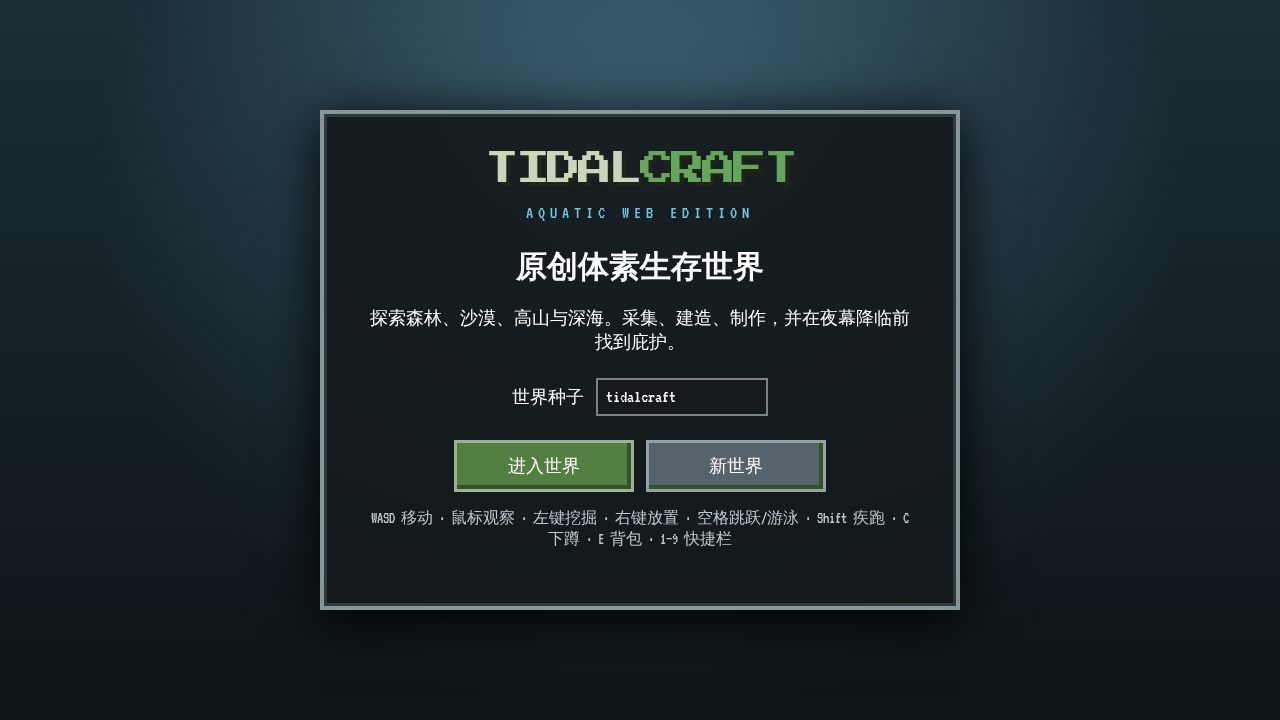
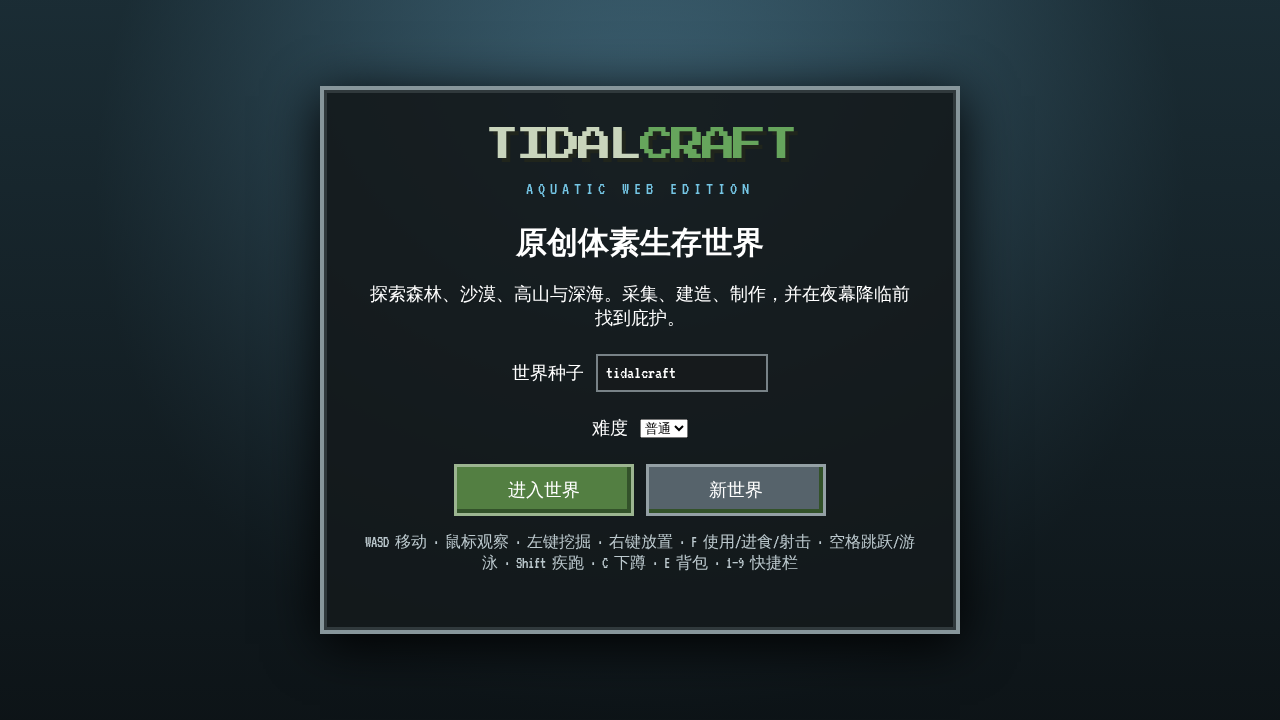
TES-5: expand survival and aquatic interactions

Changed region(s): [[0.25, 0.0917, 0.75, 0.7944], [0.25, 0.825, 0.75, 0.8861]]

diff --git a/src/main.js b/src/main.js
@@ -1,21 +1,21 @@
 import * as THREE from 'three';
 import './style.css';
 import {BLOCKS,ITEMS,ALL_DEFINITIONS,HOTBAR_DEFAULT,RECIPES} from './data.js';
-import {SEA_LEVEL,hashSeed,noise2,biomeAt,terrainHeight,generatedBlock,keyOf,Inventory,canHarvest,breakSeconds,tickSurvival,serializeSave,parseSave} from './sim.js';
+import {SEA_LEVEL,hashSeed,noise2,biomeAt,terrainHeight,generatedBlock,keyOf,Inventory,canHarvest,breakSeconds,tickSurvival,serializeSave,parseSave,smelt} from './sim.js';
 
 const $=s=>document.querySelector(s); const canvas=$('#game');
 const scene=new THREE.Scene(); scene.background=new THREE.Color(0x79b7dc); scene.fog=new THREE.Fog(0x91bdd0,25,76);
 const camera=new THREE.PerspectiveCamera(72,innerWidth/innerHeight,.08,120); camera.rotation.order='YXZ';
 const renderer=new THREE.WebGLRenderer({canvas,antialias:false,powerPreference:'high-performance'}); renderer.setPixelRatio(Math.min(devicePixelRatio,1.5)); renderer.setSize(innerWidth,innerHeight); renderer.shadowMap.enabled=false;
 scene.add(new THREE.HemisphereLight(0xc8eaff,0x5b6455,1.9)); const sun=new THREE.DirectionalLight(0xfff3d0,2); sun.position.set(35,50,20); scene.add(sun);
-const worldGroup=new THREE.Group(); const entityGroup=new THREE.Group(); const dropsGroup=new THREE.Group(); scene.add(worldGroup,entityGroup,dropsGroup);
+const worldGroup=new THREE.Group(); const entityGroup=new THREE.Group(); const dropsGroup=new THREE.Group(); const projectileGroup=new THREE.Group(); scene.add(worldGroup,entityGroup,dropsGroup,projectileGroup);
 const boxGeo=new THREE.BoxGeometry(1,1,1); const raycaster=new THREE.Raycaster(); raycaster.far=6; const center=new THREE.Vector2(0,0);
 const outline=new THREE.LineSegments(new THREE.EdgesGeometry(new THREE.BoxGeometry(1.012,1.012,1.012)),new THREE.LineBasicMaterial({color:0x111111})); outline.visible=false; scene.add(outline);
 
 let seedText='tidalcraft',seed=hashSeed(seedText),started=false,selected=0,last=performance.now(),lastHud=0,yaw=0,pitch=0,frameTimes=[],saveTimer=0,breakState=null;
-let modifications=new Map(),blockMeshes=[],entities=[],drops=[],keys={},chunks=new Set(),difficulty='normal';
+let modifications=new Map(),blockMeshes=[],entities=[],drops=[],projectiles=[],keys={},chunks=new Set(),difficulty='normal';
 let player={x:0,y:15,z:0,vx:0,vy:0,vz:0,health:20,hunger:20,oxygen:10,onGround:false,time:6000,spawn:{x:0,y:15,z:0},dead:false};
-let inventory=new Inventory(); HOTBAR_DEFAULT.forEach((id,i)=>inventory.slots[i]={id,count:id==='wooden_pickaxe'||id==='trident'?1:32,durability:ITEMS[id]?.durability}); inventory.add('bread',5); inventory.add('arrow',16);
+let inventory=new Inventory(); HOTBAR_DEFAULT.forEach((id,i)=>inventory.slots[i]={id,count:id==='wooden_pickaxe'||id==='trident'?1:32,durability:ITEMS[id]?.durability}); inventory.add('bread',5); inventory.add('arrow',16); inventory.add('wooden_hoe',1,{durability:59}); inventory.add('wheat_seed',8);
 
 function materialFor(id){const d=BLOCKS[id];return new THREE.MeshLambertMaterial({color:d.color,transparent:!!d.transparent,opacity:id==='water' ? .62 : (d.transparent ? .82 : 1),depthWrite:id!=='water',flatShading:true})}
 const materials=new Map(Object.keys(BLOCKS).map(id=>[id,materialFor(id)]));
@@ -32,10 +32,20 @@ function collides(x,y,z){const r=.3;for(const dx of[-r,r])for(const dz of[-r,r])
 function updatePlayer(dt){const underwater=player.y<SEA_LEVEL-.2&&actualBlock(player.x,player.y+1,player.z)==='water';const speed=(keys.ShiftLeft?7.2:keys.KeyC?2.1:4.3)*(underwater?.72:1),fwd=(keys.KeyW?1:0)-(keys.KeyS?1:0),side=(keys.KeyD?1:0)-(keys.KeyA?1:0);const len=Math.hypot(fwd,side)||1,sy=Math.sin(yaw),cy=Math.cos(yaw);player.vx=((side*cy-fwd*sy)/len)*speed;player.vz=((fwd*cy+side*sy)/len)*speed;if(underwater){player.vy+=(keys.Space?8:-1.4)*dt;player.vy*=.9}else player.vy-=22*dt;if(keys.Space&&player.onGround){player.vy=8;player.onGround=false}let nx=player.x+player.vx*dt;if(!collides(nx,player.y,player.z))player.x=nx;else if(!collides(nx,player.y+.55,player.z))player.y+=.55,player.x=nx;let nz=player.z+player.vz*dt;if(!collides(player.x,player.y,nz))player.z=nz;let ny=player.y+player.vy*dt;if(!collides(player.x,ny,player.z)){player.y=ny;player.onGround=false}else{if(player.vy<0)player.onGround=true;player.vy=0}if(player.y<0){damage(99);respawn()}tickSurvival(player,dt,{underwater,difficulty});$('#underwater').style.opacity=underwater?1:0;$('#oxygen-row').style.display=underwater?'block':'none';camera.position.set(player.x,player.y+1.62-(keys.KeyC?.35:0),player.z);camera.rotation.set(pitch,yaw,0);if(player.health<=0&&!player.dead){player.dead=true;for(const s of inventory.slots)if(s)spawnDrop(player.x,player.y+1,player.z,s.id,s.count);inventory=new Inventory();toast('你死了 — 正在重生');setTimeout(respawn,1700)}if(Math.floor(player.x/16)+','+Math.floor(player.z/16)!==[...chunks][12]){const edge=[...chunks].every(c=>{const[a,b]=c.split(',').map(Number);return Math.abs(a-Math.floor(player.x/16))<=2&&Math.abs(b-Math.floor(player.z/16))<=2});if(!edge)buildWorld()}}
 function damage(n){player.health=Math.max(0,player.health-n)} function respawn(){Object.assign(player,{...player.spawn,vx:0,vy:0,vz:0,health:20,hunger:20,oxygen:10,dead:false})}
 function spawnDrop(x,y,z,id,count=1){const mesh=new THREE.Mesh(new THREE.BoxGeometry(.28,.28,.28),new THREE.MeshLambertMaterial({color:BLOCKS[id]?.color||0xf3d26b}));mesh.position.set(x,y,z);dropsGroup.add(mesh);drops.push({mesh,id,count,age:0})}
-function updateDrops(dt){for(const d of drops){d.age+=dt;d.mesh.rotation.y+=dt*2;d.mesh.position.y+=Math.sin(d.age*3)*.001;const dist=d.mesh.position.distanceTo(camera.position);if(dist<1.7){const left=inventory.add(d.id,d.count);if(!left){dropsGroup.remove(d.mesh);drops=drops.filter(x=>x!==d);toast(`拾取 ${ALL_DEFINITIONS[d.id]?.name||d.id}`);renderHud()}}}}
+function updateDrops(dt){
+  for(const d of [...drops]){
+    d.age+=dt;d.mesh.rotation.y+=dt*2;d.mesh.position.y+=Math.sin(d.age*3)*.001;
+    const dist=d.mesh.position.distanceTo(camera.position);
+    if(dist<1.7){const left=inventory.add(d.id,d.count);if(!left){dropsGroup.remove(d.mesh);drops=drops.filter(x=>x!==d);toast(`拾取 ${ALL_DEFINITIONS[d.id]?.name||d.id}`);renderHud()}}
+  }
+  updateProjectiles(dt);
+}
+function throwWeapon(id){const dir=new THREE.Vector3();camera.getWorldDirection(dir);const mesh=new THREE.Mesh(id==='trident'?new THREE.CylinderGeometry(.06,.06,1.2,5):new THREE.BoxGeometry(.08,.08,.55),new THREE.MeshLambertMaterial({color:id==='trident'?0x72b9b5:0x6d5635}));mesh.position.copy(camera.position).add(dir.clone());mesh.quaternion.setFromUnitVectors(new THREE.Vector3(0,1,0),dir);projectileGroup.add(mesh);projectiles.push({mesh,id,dir,age:0});const slot=inventory.slots[selected];if(slot?.durability)slot.durability--;if(id==='bow')inventory.remove('arrow',1);renderHud()}
+function updateProjectiles(dt){for(const p of [...projectiles]){p.age+=dt;const returning=p.id==='trident'&&p.age>.65;if(returning){const d=camera.position.clone().sub(p.mesh.position),distance=d.length();p.mesh.position.add(d.normalize().multiplyScalar(dt*18));if(distance<1){projectileGroup.remove(p.mesh);projectiles=projectiles.filter(x=>x!==p);continue}}else p.mesh.position.add(p.dir.clone().multiplyScalar(dt*(p.id==='trident'?18:25)));for(const e of entities){if(e.mesh.position.distanceTo(p.mesh.position)<.8){const aquatic=['dolphin','cod','salmon','tropical_fish','pufferfish'].includes(e.type);e.hp-=p.id==='trident'?(aquatic?13:8):5;e.mesh.material.emissive.setHex(0xffffff);if(e.hp<=0){spawnDrop(e.mesh.position.x,e.mesh.position.y,e.mesh.position.z,aquatic?'bread':'raw_iron');entityGroup.remove(e.mesh);entities=entities.filter(x=>x!==e)}if(p.id!=='trident')p.age=99;break}}if(p.age>3){projectileGroup.remove(p.mesh);projectiles=projectiles.filter(x=>x!==p)}}}
 
 function target(){raycaster.setFromCamera(center,camera);const hits=raycaster.intersectObjects([...blockMeshes,...entityGroup.children],false);return hits[0]}
 function actPlace(){const hit=target();if(!hit||entityGroup.children.includes(hit.object))return;const p=hit.point.clone().add(hit.face.normal.clone().multiplyScalar(.51)).floor();const slot=inventory.slots[selected];if(!slot||!BLOCKS[slot.id]||BLOCKS[slot.id].liquid)return toast('选择一个可放置方块');if(collides(p.x,p.y,p.z)||Math.hypot(p.x-player.x,p.z-player.z)<.7&&Math.abs(p.y-player.y)<2)return toast('此处不能放置');modifications.set(keyOf(p.x,p.y,p.z),slot.id);slot.count--;if(!slot.count)inventory.slots[selected]=null;buildWorld();renderHud()}
+function actUse(){const slot=inventory.slots[selected],hit=target();if(!slot)return;if(slot.id==='bread'||BLOCKS[slot.id]?.food){player.hunger=Math.min(20,player.hunger+(ITEMS[slot.id]?.food||BLOCKS[slot.id].food));slot.count--;if(!slot.count)inventory.slots[selected]=null;toast('恢复饥饿值');return renderHud()}const ent=hit&&entities.find(e=>e.mesh===hit.object);if(ent&&slot.id==='bucket'&&['cod','salmon','tropical_fish','pufferfish'].includes(ent.type)){inventory.remove('bucket',1);inventory.add('fish_bucket',1,{fish:ent.type});entityGroup.remove(ent.mesh);entities=entities.filter(e=>e!==ent);toast(`捕获 ${ent.type}`);return renderHud()}if(slot.id==='trident'){const wet=player.y<SEA_LEVEL;if(wet&&keys.ShiftLeft){const dir=new THREE.Vector3();camera.getWorldDirection(dir);player.vx=dir.x*18;player.vy=dir.y*18+6;player.vz=dir.z*18;toast('激流：向前突进')}else{throwWeapon('trident');toast('忠诚三叉戟已投掷')}return}if(slot.id==='bow'){if(inventory.count('arrow'))throwWeapon('bow');else toast('没有箭');return}if(!hit||ent)return actPlace();const pos=hit.object.userData.poses[hit.instanceId],id=actualBlock(pos.x,pos.y,pos.z);if(slot.id==='wooden_hoe'&&['grass','dirt'].includes(id)){modifications.set(keyOf(pos.x,pos.y,pos.z),'farmland');slot.durability--;buildWorld();toast('土地已耕作');return renderHud()}if(['wheat_seed','carrot','potato'].includes(slot.id)&&id==='farmland'){const crop=slot.id==='wheat_seed'?'wheat':slot.id;modifications.set(keyOf(pos.x,pos.y+1,pos.z),crop);slot.count--;if(!slot.count)inventory.slots[selected]=null;buildWorld();toast('已种植');return renderHud()}if(id==='furnace'){toast(smelt(inventory,'raw_iron')?'熔炼完成：铁锭 +1':'需要粗铁和煤炭');return renderHud()}if(id==='bed'){player.spawn={x:pos.x,y:pos.y+1,z:pos.z};if(player.time>13000&&player.time<23000)player.time=1000;toast('已设置重生点并跳过夜晚');return}actPlace()}
 function startBreak(){const hit=target();if(!hit)return;const ent=entities.find(e=>e.mesh===hit.object);if(ent){attack(ent);return}const pos=hit.object.userData.poses[hit.instanceId];if(!pos)return;const id=actualBlock(pos.x,pos.y,pos.z);if(id==='water'||id==='bedrock')return;breakState={pos,id,start:performance.now(),duration:breakSeconds(id,inventory.slots[selected]?.id)*1000}}
 function finishBreak(){if(!breakState)return;const elapsed=performance.now()-breakState.start;if(elapsed>=breakState.duration){const{id,pos}=breakState,item=inventory.slots[selected]?.id;modifications.set(keyOf(pos.x,pos.y,pos.z),null);if(canHarvest(id,item)){const drop=BLOCKS[id].drop||id;spawnDrop(pos.x,pos.y+.3,pos.z,drop)}if(inventory.slots[selected]?.durability){inventory.slots[selected].durability--;if(inventory.slots[selected].durability<=0){inventory.slots[selected]=null;toast('工具损坏')}}buildWorld();renderHud()}breakState=null}
 function attack(e){const slot=inventory.slots[selected],damage=slot?.id==='trident'?8:slot?.id?.includes('axe')?6:2;e.hp-=damage;e.mesh.material.emissive.setHex(0xffffff);setTimeout(()=>e.mesh?.material?.emissive?.setHex(0),90);e.mesh.position.add(new THREE.Vector3(e.mesh.position.x-player.x,.2,e.mesh.position.z-player.z).normalize().multiplyScalar(.7));if(e.hp<=0){spawnDrop(e.mesh.position.x,e.mesh.position.y,e.mesh.position.z,e.type==='sheep'?'wool':e.type.includes('fish')?'bread':'raw_iron',1);entityGroup.remove(e.mesh);entities=entities.filter(x=>x!==e);toast(`${e.type} 被击败`)}}
@@ -47,9 +57,10 @@ function toast(msg){const el=$('#toast');el.textContent=msg;el.classList.add('sh
 
 function save(){const data=serializeSave({seed,seedText,player,inventory,modifications:[...modifications],difficulty,entities:entities.map(e=>({type:e.type,x:e.mesh.position.x,y:e.mesh.position.y,z:e.mesh.position.z,hp:e.hp}))});localStorage.setItem('tidalcraft-save-v1',data);toast('世界已保存')}
 function load(){const raw=localStorage.getItem('tidalcraft-save-v1');if(!raw)return false;const d=parseSave(raw);if(!d){$('#load-note').textContent='存档损坏，已安全回退；可创建新世界。';return false}seed=d.seed;seedText=d.seedText||String(seed);player=d.player;inventory=d.inventory;modifications=new Map(d.modifications||[]);difficulty=d.difficulty||'normal';$('#seed').value=seedText;$('#load-note').textContent='发现本地存档，将从上次位置继续。';return true}
-function begin(fresh=false){if(fresh){localStorage.removeItem('tidalcraft-save-v1');seedText=$('#seed').value||'aquatic-140';seed=hashSeed(seedText);modifications=new Map();player={x:0,y:terrainHeight(0,0,seed)+3,z:0,vx:0,vy:0,vz:0,health:20,hunger:20,oxygen:10,onGround:false,time:6000,spawn:{x:0,y:terrainHeight(0,0,seed)+3,z:0},dead:false};inventory=new Inventory();HOTBAR_DEFAULT.forEach((id,i)=>inventory.slots[i]={id,count:id==='wooden_pickaxe'||id==='trident'?1:32,durability:ITEMS[id]?.durability});inventory.add('bread',5);inventory.add('arrow',16)}else if(!localStorage.getItem('tidalcraft-save-v1')){seedText=$('#seed').value;seed=hashSeed(seedText);player.y=terrainHeight(0,0,seed)+3;player.spawn.y=player.y}buildWorld();spawnEntities();renderHud();$('#menu').classList.add('hidden');started=true;canvas.requestPointerLock()}
+function begin(fresh=false){difficulty=$('#difficulty').value;if(fresh){localStorage.removeItem('tidalcraft-save-v1');seedText=$('#seed').value||'tidalcraft';seed=hashSeed(seedText);modifications=new Map();player={x:0,y:terrainHeight(0,0,seed)+3,z:0,vx:0,vy:0,vz:0,health:20,hunger:20,oxygen:10,onGround:false,time:6000,spawn:{x:0,y:terrainHeight(0,0,seed)+3,z:0},dead:false};inventory=new Inventory();HOTBAR_DEFAULT.forEach((id,i)=>inventory.slots[i]={id,count:id==='wooden_pickaxe'||id==='trident'?1:32,durability:ITEMS[id]?.durability});inventory.add('bread',5);inventory.add('arrow',16);inventory.add('wooden_hoe',1,{durability:59});inventory.add('wheat_seed',8)}else if(!localStorage.getItem('tidalcraft-save-v1')){seedText=$('#seed').value;seed=hashSeed(seedText);player.y=terrainHeight(0,0,seed)+3;player.spawn.y=player.y}buildWorld();spawnEntities();renderHud();$('#menu').classList.add('hidden');started=true;canvas.requestPointerLock()}
 
 function animate(now){requestAnimationFrame(animate);const dt=Math.min(.05,(now-last)/1000);last=now;if(started&&!player.dead){updatePlayer(dt);updateEntities(dt);updateDrops(dt);updateTarget();player.time=(player.time+dt*20)%24000;const angle=(player.time/24000)*Math.PI*2-Math.PI/2;sun.position.set(Math.cos(angle)*50,Math.sin(angle)*50,20);sun.intensity=Math.max(.12,Math.sin(angle)*1.8);const daylight=Math.max(.08,(Math.sin(angle)+.25)/1.25);scene.background.setRGB(.12+.35*daylight,.18+.48*daylight,.25+.55*daylight);scene.fog.color.copy(scene.background);frameTimes.push(dt*1000);if(frameTimes.length>300)frameTimes.shift();if(now-lastHud>200){lastHud=now;$('#fps').textContent=`FPS ${Math.round(1000/(frameTimes.reduce((a,b)=>a+b,0)/frameTimes.length||16))}`;$('#coords').textContent=`XYZ ${player.x.toFixed(1)} / ${player.y.toFixed(1)} / ${player.z.toFixed(1)}`;$('#clock').textContent=`Day 1 · ${String((Math.floor(player.time/1000)+6)%24).padStart(2,'0')}:00`;$('#biome').textContent=biomeAt(player.x,player.z,seed).replaceAll('_',' ');renderHud()}saveTimer+=dt;if(saveTimer>30){saveTimer=0;save()}}renderer.render(scene,camera)}
 
 window.__tidalcraft={snapshot:()=>{const sorted=[...frameTimes].sort((a,b)=>a-b),avg=frameTimes.reduce((a,b)=>a+b,0)/(frameTimes.length||1);return {started,chunks:chunks.size,blockTypes:blockMeshes.length,instances:blockMeshes.reduce((n,m)=>n+m.count,0),entities:entities.length,drawCalls:renderer.info.render.calls,triangles:renderer.info.render.triangles,averageFps:1000/avg,p95FrameMs:sorted[Math.floor(sorted.length*.95)]||0,samples:frameTimes.length}}};
 addEventListener('resize',()=>{camera.aspect=innerWidth/innerHeight;camera.updateProjectionMatrix();renderer.setSize(innerWidth,innerHeight)});addEventListener('keydown',e=>{keys[e.code]=true;if(/^Digit[1-9]$/.test(e.code)){selected=+e.code.at(-1)-1;renderHud()}if(e.code==='KeyE'){const open=$('#panel').classList.toggle('hidden');document.body.classList.toggle('panel-open',!open);if(!open)document.exitPointerLock();else canvas.requestPointerLock()}if(e.code==='KeyQ'){const s=inventory.slots[selected];if(s){spawnDrop(player.x,player.y+1,player.z,s.id,1);s.count--;if(!s.count)inventory.slots[selected]=null;renderHud()}}});addEventListener('keyup',e=>keys[e.code]=false);addEventListener('mousemove',e=>{if(document.pointerLockElement===canvas){yaw-=e.movementX*.0022;pitch=Math.max(-Math.PI/2+.02,Math.min(Math.PI/2-.02,pitch-e.movementY*.0022))}});canvas.addEventListener('mousedown',e=>{if(document.pointerLockElement!==canvas)return canvas.requestPointerLock();if(e.button===0)startBreak();if(e.button===2)actPlace()});canvas.addEventListener('mouseup',e=>{if(e.button===0)finishBreak()});canvas.addEventListener('contextmenu',e=>e.preventDefault());$('#play').onclick=()=>begin(false);$('#new-world').onclick=()=>begin(true);$('#save-btn').onclick=save;$('#close-panel').onclick=()=>{document.body.classList.remove('panel-open');$('#panel').classList.add('hidden');canvas.requestPointerLock()};load();requestAnimationFrame(animate);
+addEventListener('keydown',e=>{if(e.code==='KeyF'&&document.pointerLockElement===canvas)actUse()});

diff --git a/src/data.js b/src/data.js
@@ -5,19 +5,19 @@ export const BLOCKS = {
   coal_ore:{name:'煤矿石',color:0x484a4b,hardness:2,tool:'pickaxe',drop:'coal'}, iron_ore:{name:'铁矿石',color:0xa88470,hardness:2.5,tool:'stone_pickaxe',drop:'raw_iron'}, gold_ore:{name:'金矿石',color:0xc9a93d,hardness:3,tool:'iron_pickaxe'}, diamond_ore:{name:'钻石矿石',color:0x48c8c2,hardness:3,tool:'iron_pickaxe'},
   coral_red:{name:'红珊瑚',color:0xe24e69,hardness:.3}, coral_blue:{name:'蓝珊瑚',color:0x477bd8,hardness:.3}, coral_yellow:{name:'黄珊瑚',color:0xf0cc42,hardness:.3}, kelp:{name:'海带',color:0x2c885d,hardness:.1,transparent:true}, seagrass:{name:'海草',color:0x45a66d,hardness:.1,transparent:true},
   glass:{name:'玻璃',color:0xc7e4e5,hardness:.4,transparent:true}, brick:{name:'砖块',color:0x9f4e3e,hardness:1.8,tool:'pickaxe'}, obsidian:{name:'黑曜石',color:0x29213a,hardness:8,tool:'diamond_pickaxe'}, bedrock:{name:'基岩',color:0x242627,hardness:999},
-  crafting_table:{name:'工作台',color:0x9b6635,hardness:1.5,tool:'axe'}, furnace:{name:'熔炉',color:0x55585a,hardness:2,tool:'pickaxe'}, chest:{name:'箱子',color:0xb9772f,hardness:1.5,tool:'axe'}, torch:{name:'火把',color:0xffb629,hardness:.1,transparent:true}, farmland:{name:'耕地',color:0x68452f,hardness:.5}, wheat:{name:'小麦',color:0xd8bc45,hardness:.1,transparent:true}, carrot:{name:'胡萝卜',color:0xe9812d,hardness:.1,transparent:true}, potato:{name:'马铃薯',color:0xb99345,hardness:.1,transparent:true},
-  shipwood:{name:'沉船木',color:0x4e3425,hardness:1.8,tool:'axe'}, prismarine:{name:'海晶石',color:0x58a797,hardness:2,tool:'pickaxe'}, treasure:{name:'宝藏箱',color:0xf1bd4d,hardness:2,tool:'axe'}, wool:{name:'白色羊毛',color:0xe4e1d5,hardness:.4}, cactus:{name:'仙人掌',color:0x3d873e,hardness:.4}, pumpkin:{name:'南瓜',color:0xd77c22,hardness:.6,tool:'axe'}
+  crafting_table:{name:'工作台',color:0x9b6635,hardness:1.5,tool:'axe'}, furnace:{name:'熔炉',color:0x55585a,hardness:2,tool:'pickaxe'}, chest:{name:'箱子',color:0xb9772f,hardness:1.5,tool:'axe'}, bed:{name:'床',color:0xb83737,hardness:.4}, torch:{name:'火把',color:0xffb629,hardness:.1,transparent:true}, farmland:{name:'耕地',color:0x68452f,hardness:.5}, wheat:{name:'小麦',color:0xd8bc45,hardness:.1,transparent:true}, carrot:{name:'胡萝卜',color:0xe9812d,hardness:.1,transparent:true,food:3}, potato:{name:'马铃薯',color:0xb99345,hardness:.1,transparent:true,food:2},
+  shipwood:{name:'沉船木',color:0x4e3425,hardness:1.8,tool:'axe'}, prismarine:{name:'海晶石',color:0x58a797,hardness:2,tool:'pickaxe'}, treasure:{name:'宝藏箱',color:0xf1bd4d,hardness:2,tool:'axe',drop:'treasure_map'}, wool:{name:'白色羊毛',color:0xe4e1d5,hardness:.4}, cactus:{name:'仙人掌',color:0x3d873e,hardness:.4}, pumpkin:{name:'南瓜',color:0xd77c22,hardness:.6,tool:'axe'}
 };
 
 export const ITEMS = {
-  stick:{name:'木棍'}, coal:{name:'煤炭'}, raw_iron:{name:'粗铁'}, iron_ingot:{name:'铁锭'}, bread:{name:'面包',food:5}, boat:{name:'橡木船'}, bucket:{name:'桶'}, fish_bucket:{name:'鳕鱼桶'}, bow:{name:'弓',durability:96}, arrow:{name:'箭'}, armor:{name:'铁胸甲',armor:6,durability:240}, trident:{name:'三叉戟',damage:8,durability:250}, treasure_map:{name:'藏宝线索'}, wheat_seed:{name:'小麦种子'}, wooden_pickaxe:{name:'木镐',tool:'pickaxe',tier:1,durability:59}, stone_pickaxe:{name:'石镐',tool:'pickaxe',tier:2,durability:131}, iron_pickaxe:{name:'铁镐',tool:'pickaxe',tier:3,durability:250}, wooden_axe:{name:'木斧',tool:'axe',tier:1,durability:59}
+  stick:{name:'木棍'}, coal:{name:'煤炭'}, raw_iron:{name:'粗铁'}, iron_ingot:{name:'铁锭'}, bread:{name:'面包',food:5}, boat:{name:'橡木船'}, bucket:{name:'桶'}, fish_bucket:{name:'鳕鱼桶'}, bow:{name:'弓',durability:96}, arrow:{name:'箭'}, armor:{name:'铁胸甲',armor:6,durability:240}, trident:{name:'三叉戟',damage:8,durability:250}, treasure_map:{name:'藏宝线索'}, wheat_seed:{name:'小麦种子'}, wooden_pickaxe:{name:'木镐',tool:'pickaxe',tier:1,durability:59}, stone_pickaxe:{name:'石镐',tool:'pickaxe',tier:2,durability:131}, iron_pickaxe:{name:'铁镐',tool:'pickaxe',tier:3,durability:250}, wooden_axe:{name:'木斧',tool:'axe',tier:1,durability:59}, wooden_hoe:{name:'木锄',tool:'hoe',tier:1,durability:59}
 };
 
 export const RECIPES = [
   {id:'planks',name:'木板 ×4',in:{log:1},out:{planks:4}}, {id:'stick',name:'木棍 ×4',in:{planks:2},out:{stick:4}}, {id:'crafting_table',name:'工作台',in:{planks:4},out:{crafting_table:1}},
   {id:'wooden_pickaxe',name:'木镐',in:{planks:3,stick:2},out:{wooden_pickaxe:1}}, {id:'stone_pickaxe',name:'石镐',in:{cobble:3,stick:2},out:{stone_pickaxe:1}}, {id:'iron_pickaxe',name:'铁镐',in:{iron_ingot:3,stick:2},out:{iron_pickaxe:1}},
   {id:'torch',name:'火把 ×4',in:{coal:1,stick:1},out:{torch:4}}, {id:'chest',name:'箱子',in:{planks:8},out:{chest:1}}, {id:'furnace',name:'熔炉',in:{cobble:8},out:{furnace:1}}, {id:'boat',name:'船',in:{planks:5},out:{boat:1}},
-  {id:'bucket',name:'桶',in:{iron_ingot:3},out:{bucket:1}}, {id:'bread',name:'面包',in:{wheat:3},out:{bread:1}}, {id:'bow',name:'弓',in:{stick:3,wool:3},out:{bow:1}}, {id:'trident',name:'三叉戟',in:{prismarine:4,iron_ingot:2},out:{trident:1}}
+  {id:'bucket',name:'桶',in:{iron_ingot:3},out:{bucket:1}}, {id:'bread',name:'面包',in:{wheat:3},out:{bread:1}}, {id:'bed',name:'床',in:{planks:3,wool:3},out:{bed:1}}, {id:'wooden_hoe',name:'木锄',in:{planks:2,stick:2},out:{wooden_hoe:1}}, {id:'bow',name:'弓',in:{stick:3,wool:3},out:{bow:1}}, {id:'armor',name:'铁胸甲',in:{iron_ingot:8},out:{armor:1}}, {id:'trident',name:'三叉戟',in:{prismarine:4,iron_ingot:2},out:{trident:1}}
 ];
 
 export const ALL_DEFINITIONS = {...BLOCKS,...ITEMS};

diff --git a/test/sim.test.js b/test/sim.test.js
@@ -1,5 +1,5 @@
 import {describe,it,expect} from 'vitest';
-import {hashSeed,biomeAt,terrainHeight,generatedBlock,Inventory,canHarvest,breakSeconds,growCrop,tickSurvival,tridentEffect,serializeSave,parseSave,RECIPES} from '../src/sim.js';
+import {hashSeed,biomeAt,terrainHeight,generatedBlock,Inventory,canHarvest,breakSeconds,growCrop,tickSurvival,tridentEffect,serializeSave,parseSave,smelt,RECIPES} from '../src/sim.js';
 
 describe('deterministic world',()=>{
   it('repeats terrain for the same seed',()=>{const s=hashSeed('aquatic-140');const a=Array.from({length:30},(_,i)=>[biomeAt(i*7,i*-3,s),terrainHeight(i*7,i*-3,s),generatedBlock(i,2,i,s)]);expect(a).toEqual(Array.from({length:30},(_,i)=>[biomeAt(i*7,i*-3,s),terrainHeight(i*7,i*-3,s),generatedBlock(i,2,i,s)]))});
@@ -10,6 +10,7 @@ describe('inventory and progression',()=>{
   it('stacks, splits, removes and handles full storage',()=>{const i=new Inventory(2);expect(i.add('stone',70)).toBe(0);expect(i.slots).toEqual([{id:'stone',count:64},{id:'stone',count:6}]);expect(i.remove('stone',65)).toBe(true);expect(i.count('stone')).toBe(5);expect(i.add('dirt',70)).toBe(6)});
   it('crafts wood to stone to iron tools from config',()=>{const i=new Inventory();i.add('log',6);i.add('cobble',3);i.add('iron_ingot',3);for(const id of['planks','planks','planks','planks','stick','stick','crafting_table','wooden_pickaxe','stone_pickaxe','iron_pickaxe']){const r=RECIPES.find(x=>x.id===id);expect(i.craft(r),id).toBe(true)}expect(i.count('iron_pickaxe')).toBe(1)});
   it('enforces mining tiers and changes speed',()=>{expect(canHarvest('iron_ore','wooden_pickaxe')).toBe(false);expect(canHarvest('iron_ore','stone_pickaxe')).toBe(true);expect(canHarvest('diamond_ore','stone_pickaxe')).toBe(false);expect(breakSeconds('stone','iron_pickaxe')).toBeLessThan(breakSeconds('stone','wooden_pickaxe'))});
+  it('smelts mined ore into the iron upgrade input',()=>{const i=new Inventory();i.add('raw_iron',1);i.add('coal',1);expect(smelt(i,'raw_iron')).toBe(true);expect(i.count('iron_ingot')).toBe(1);expect(i.count('coal')).toBe(0)});
 });
 
 describe('survival, farming and aquatic mechanics',()=>{

diff --git a/src/sim.js b/src/sim.js
@@ -24,6 +24,8 @@ export function canHarvest(blockId,itemId){const block=BLOCKS[blockId];if(!block
 export function breakSeconds(blockId,itemId){const block=BLOCKS[blockId];const item=ITEMS[itemId];const correct=canHarvest(blockId,itemId);return block.hardness/(correct?(1+(item?.tier||1)*1.8):.45)}
 export function tickSurvival(player,dt,{underwater=false,difficulty='normal'}={}){player.hunger=Math.max(0,player.hunger-dt*.005);if(underwater)player.oxygen=Math.max(0,player.oxygen-dt);else player.oxygen=Math.min(10,player.oxygen+dt*3);if(player.oxygen===0)player.health=Math.max(0,player.health-dt*(difficulty==='peaceful'?0:1));if(player.hunger===0)player.health=Math.max(difficulty==='normal'?1:0,player.health-dt*.2);else if(player.hunger>16&&player.health<20)player.health=Math.min(20,player.health+dt*.05);return player}
 export function growCrop(stage,ticks,light=15){return light>=9?Math.min(7,stage+Math.floor(ticks/1200)):stage}
+export const SMELTING={raw_iron:'iron_ingot'};
+export function smelt(inventory,input){const output=SMELTING[input];if(!output||inventory.count(input)<1||inventory.count('coal')<1)return false;inventory.remove(input,1);inventory.remove('coal',1);inventory.add(output,1);return true}
 export function tridentEffect(enchant,ctx){if(enchant==='loyalty')return {returns:true};if(enchant==='riptide')return {launch:ctx.wet?18:0};if(enchant==='channeling')return {lightning:!!ctx.thunder};if(enchant==='impaling')return {damage:ctx.aquatic?13:8};return {damage:8}}
 export function serializeSave(state){return JSON.stringify({version:1,...state,inventory:state.inventory.serialize()})}
 export function parseSave(raw){try{const d=JSON.parse(raw);if(d.version!==1||typeof d.seed!=='number'||!d.player)throw Error('invalid save');return {...d,inventory:Inventory.from(d.inventory)}}catch{return null}}

diff --git a/index.html b/index.html
@@ -32,8 +32,9 @@
         <h1>原创体素生存世界</h1>
         <p>探索森林、沙漠、高山与深海。采集、建造、制作，并在夜幕降临前找到庇护。</p>
         <label>世界种子 <input id="seed" value="tidalcraft" maxlength="32" /></label>
+        <label>难度 <select id="difficulty"><option value="peaceful">和平</option><option value="easy">简单</option><option value="normal" selected>普通</option><option value="hard">困难</option></select></label>
         <div class="menu-actions"><button id="play">进入世界</button><button id="new-world">新世界</button></div>
-        <p class="controls">WASD 移动 · 鼠标观察 · 左键挖掘 · 右键放置 · 空格跳跃/游泳 · Shift 疾跑 · C 下蹲 · E 背包 · 1–9 快捷栏</p>
+        <p class="controls">WASD 移动 · 鼠标观察 · 左键挖掘 · 右键放置 · F 使用/进食/射击 · 空格跳跃/游泳 · Shift 疾跑 · C 下蹲 · E 背包 · 1–9 快捷栏</p>
         <p id="load-note"></p>
       </div>
     </section>

diff --git a/README.md b/README.md
@@ -10,7 +10,7 @@ TidalCraft 是一个完全使用 Web 技术制作的原创第一人称 3D 体素
 
 `https://wuswufei0409.github.io/test3/`
 
-桌面 Chromium：点击“进入世界”，允许指针锁定。WASD 移动，鼠标观察，左键持续挖掘、右键放置，空格跳跃/游泳，Shift 疾跑，C 下蹲，E 背包/配方册，1–9 选快捷栏，Q 丢弃一件物品。
+桌面 Chromium：点击“进入世界”，允许指针锁定。WASD 移动，鼠标观察，左键持续挖掘、右键放置，F 使用/进食/射击，空格跳跃/游泳，Shift 疾跑，C 下蹲，E 背包/配方册，1–9 选快捷栏，Q 丢弃一件物品。
 
 ## 本地开发与验证
 
